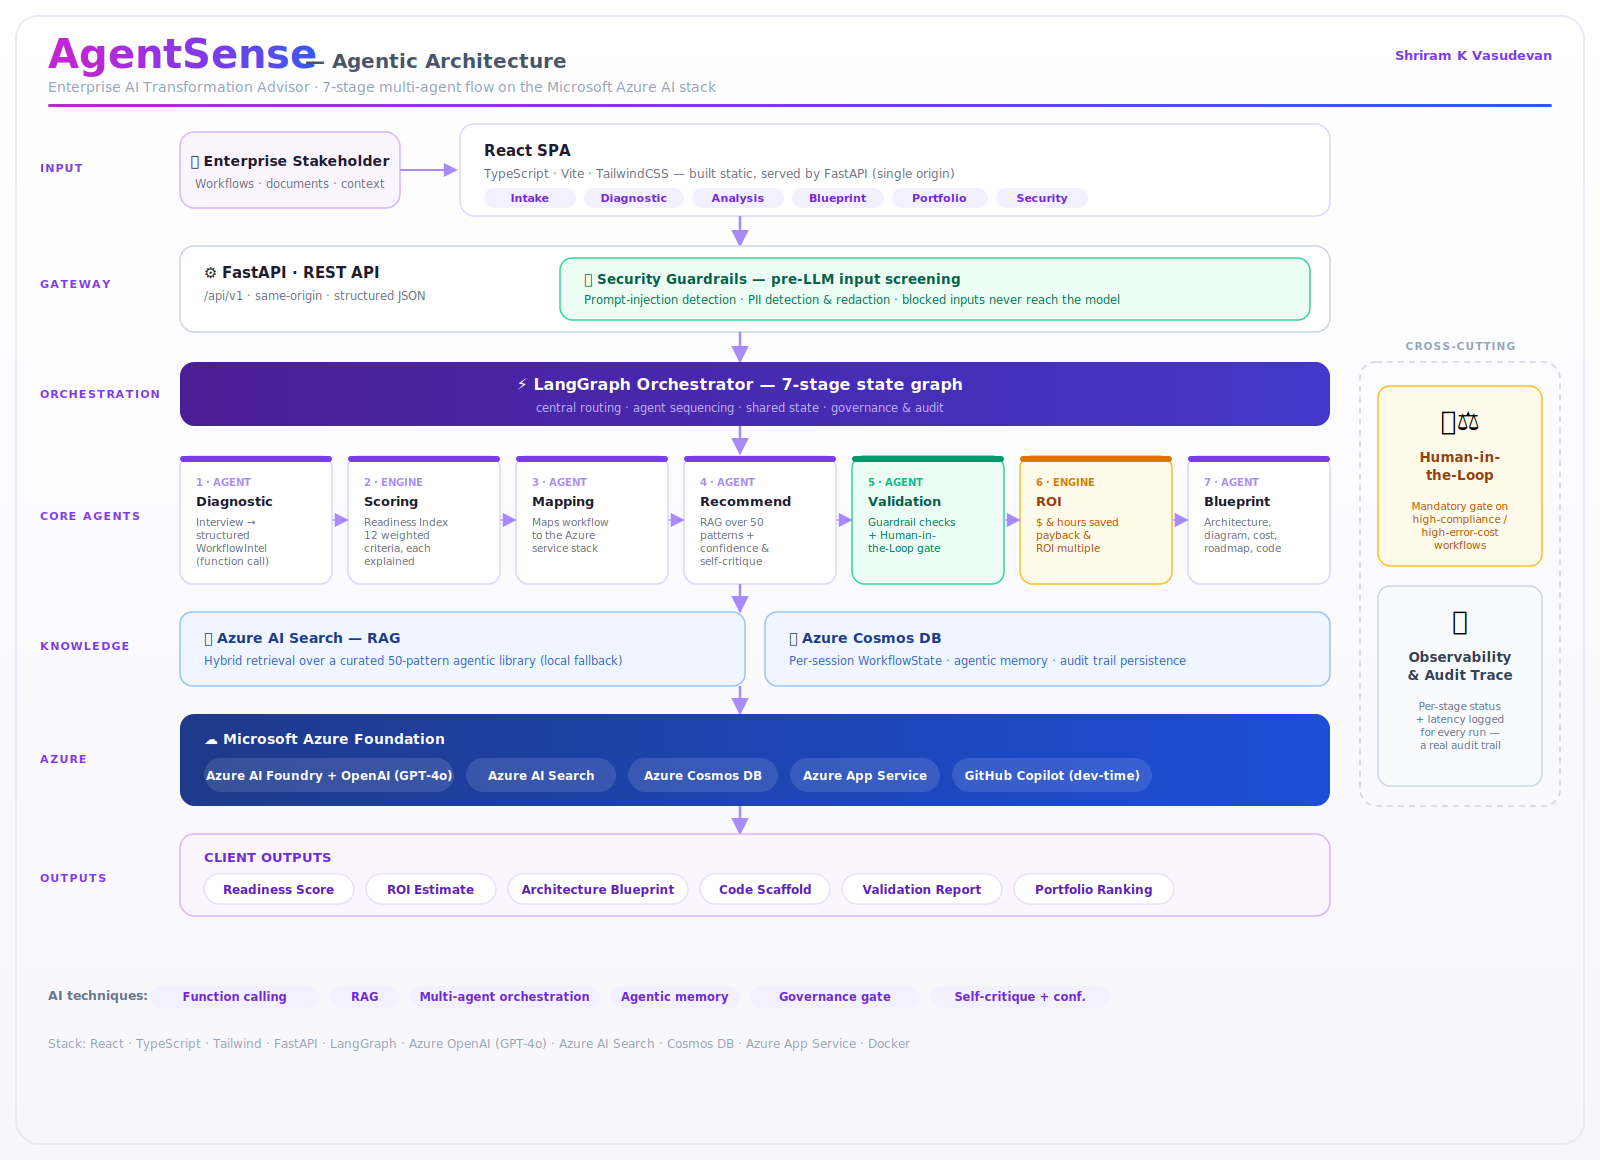
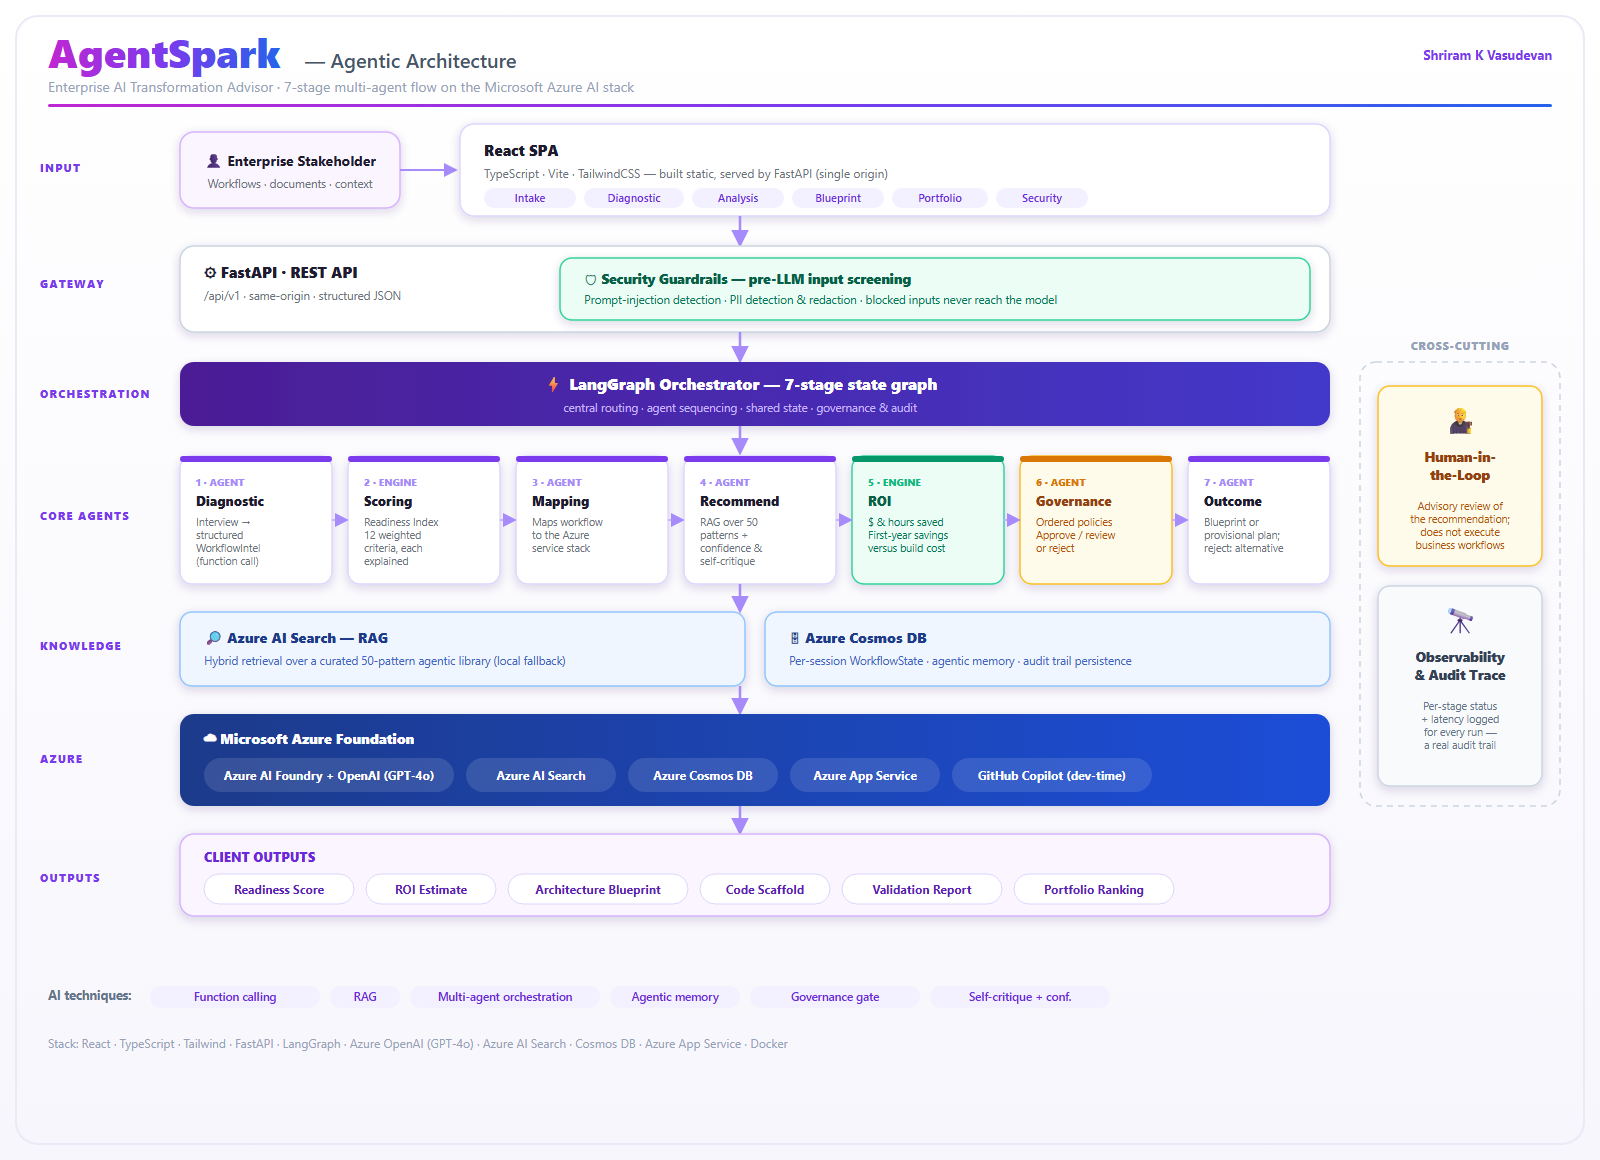
Complete AgentSpark repository and release branding
Rebrand public package/image/artifact names, architecture artwork, runtime logs and documentation. Preserve legacy configuration, reviewer role values, persistence identifiers and original authorship. Document safe repository rename and fork-detachment metadata limitations.

diff --git a/tests/test_delivery.py b/tests/test_delivery.py
@@ -1,4 +1,5 @@
 import os
+import json
 from pathlib import Path
 import re
 import unittest
@@ -111,6 +112,35 @@ class SmokeTests(unittest.TestCase):
 
 
 class DeliveryConfigurationTests(unittest.TestCase):
+    def test_public_package_image_and_release_artifacts_use_agentspark(self):
+        package = json.loads((ROOT / "frontend" / "package.json").read_text())
+        lock = json.loads((ROOT / "frontend" / "package-lock.json").read_text())
+        self.assertEqual(package["name"], "agentspark-frontend")
+        self.assertEqual(lock["name"], package["name"])
+        self.assertEqual(lock["packages"][""]["name"], package["name"])
+        dockerfile = (ROOT / "Dockerfile").read_text()
+        self.assertIn('org.opencontainers.image.title="AgentSpark"', dockerfile)
+        workflow = (ROOT / ".github" / "workflows" / "ci.yml").read_text()
+        self.assertIn("tags: agentspark:${{ github.sha }}", workflow)
+        self.assertIn("release/agentspark-linux-amd64.tar.gz", workflow)
+        self.assertIn("sha256sum agentspark-linux-amd64.tar.gz", workflow)
+        self.assertIn("name: agentspark-${{ github.sha }}-linux-amd64", workflow)
+        self.assertNotIn("agentsense-linux-amd64", workflow)
+
+    def test_rebranding_preserves_storage_and_legacy_configuration_contracts(self):
+        from app.security.auth import AuthSettings
+        from app.utils.runtime import load_settings
+        self.assertEqual(AuthSettings("local-demo").reviewer_role, "AgentSense.Reviewer")
+        with patch.dict(os.environ, {"AGENTSENSE_MODE": "demo"}):
+            self.assertEqual(load_settings().mode, "demo")
+        dockerfile = (ROOT / "Dockerfile").read_text()
+        self.assertIn("DEMO_ARCHIVE_PATH=/home/agentsense/.agentspark/decisions.sqlite3", dockerfile)
+        app_source = (ROOT / "frontend" / "src" / "App.tsx").read_text()
+        self.assertIn('"agentsense.session.v1"', app_source)
+        architecture = (ROOT / "docs" / "architecture.svg").read_text(encoding="utf-8")
+        self.assertIn(">AgentSpark</text>", architecture)
+        self.assertIn("Shriram K Vasudevan", architecture)
+
     def test_actions_are_immutable_read_only_and_packaging_depends_on_quality(self):
         workflow = yaml.load((ROOT / ".github" / "workflows" / "ci.yml").read_text(), Loader=yaml.BaseLoader)
         self.assertEqual(workflow["permissions"], {"contents": "read"})
@@ -124,7 +154,7 @@ class DeliveryConfigurationTests(unittest.TestCase):
         self.assertNotIn("secrets.", (ROOT / ".github" / "workflows" / "ci.yml").read_text())
 
     def test_compose_does_not_shadow_the_built_frontend_or_expose_shared_demo_publicly(self):
-        service = yaml.safe_load((ROOT / "docker-compose.yml").read_text())["services"]["agentsense"]
+        service = yaml.safe_load((ROOT / "docker-compose.yml").read_text())["services"]["agentspark"]
         self.assertEqual(service["volumes"], ["decision_archive:/home/agentsense/.agentspark"])
         self.assertEqual(service["ports"], ["127.0.0.1:8000:8000"])
         self.assertTrue(service["read_only"])

diff --git a/app/utils/models.py b/app/utils/models.py
@@ -250,7 +250,7 @@ class EnterpriseContext(BaseModel):
 
 # ──────────────────────────────────────────────────────────────
 # Portfolio — a scored workflow within a multi-workflow analysis,
-# so AgentSense can rank a whole transformation backlog.
+# so AgentSpark can rank a whole transformation backlog.
 # ──────────────────────────────────────────────────────────────
 class TokenUsage(BaseModel):
     total_tokens: int = 0

diff --git a/app/scoring/portfolio.py b/app/scoring/portfolio.py
@@ -1,7 +1,7 @@
 """
 Portfolio scoring — rank a backlog of workflows by agentification readiness.
 
-This turns AgentSense from a single-workflow advisor into a transformation
+This turns AgentSpark from a single-workflow advisor into a transformation
 portfolio planner: feed it several candidate workflows and it ranks where agents
 deliver the most value first. Every score here is COMPUTED by the same 12-criteria
 engine used in the main flow — none are hard-coded.

diff --git a/app/main.py b/app/main.py
@@ -18,7 +18,7 @@ from app.utils.runtime import settings
 
 logging.basicConfig(level=logging.INFO)
 logger = logging.getLogger(__name__)
-logger.info("AgentSense runtime mode: %s", settings.mode)
+logger.info("AgentSpark runtime mode: %s", settings.mode)
 
 app = FastAPI(title="AgentSpark API", version="2.0.0",
               description="Enterprise Agentification Advisor — React SPA + FastAPI + LangGraph")

diff --git a/app/rag/pattern_library.py b/app/rag/pattern_library.py
@@ -1,7 +1,7 @@
 """
 Curated library of agentic design patterns.
 
-This is the knowledge base AgentSense retrieves over (via Azure AI Search when
+This is the knowledge base AgentSpark retrieves over (via Azure AI Search when
 configured, or locally in mock mode). Each pattern is a vetted, reusable design
 with explicit "when to use" guidance and the Azure services it maps to.
 

diff --git a/app/utils/runtime.py b/app/utils/runtime.py
@@ -26,7 +26,7 @@ def load_settings() -> RuntimeSettings:
     except ValidationError:
         logger.exception("AGENTSENSE_MODE must be demo or live.")
         raise
-    logger.info("AgentSense runtime mode: %s", result.mode)
+    logger.info("AgentSpark runtime mode: %s", result.mode)
     return result
 
 

diff --git a/test_e2e_scenario.py b/test_e2e_scenario.py
@@ -1,5 +1,5 @@
 """
-End-to-end scenario test for AgentSense.
+End-to-end scenario test for AgentSpark.
 
 Runs the full pipeline (intake → diagnostic → 7-stage orchestration → review)
 against the real FastAPI app via TestClient. Forces MOCK MODE so it is fully

diff --git a/app/security/guardrails.py b/app/security/guardrails.py
@@ -1,5 +1,5 @@
 """
-Input guardrails for AgentSense.
+Input guardrails for AgentSpark.
 
 An agent that advises enterprises on safe agentic adoption must itself be hardened.
 Every user message entering the Diagnostic Agent is screened for:

diff --git a/docs/operations.md b/docs/operations.md
@@ -1,5 +1,43 @@
 # Delivery and operations runbook
 
+## Repository identity and compatibility
+
+The repository is now [whatanidea/AgentSpark](https://github.com/whatanidea/AgentSpark).
+GitHub renamed the existing repository in place: commits, branches, issues, and
+pull requests are retained. Existing clones can update their origin without
+recloning or rewriting history:
+
+```powershell
+git remote set-url origin https://github.com/whatanidea/AgentSpark.git
+```
+
+The Compose service is now `agentspark`; use `docker compose up --build agentspark`
+for service-specific commands. The container UID/GID, legacy internal account,
+archive path, and `decision_archive` volume are unchanged. Keep the same Compose
+project name when moving/renaming a checkout (`docker compose -p <existing-project>
+up --build`), so Docker reuses the existing named archive volume. Do not use
+`down --volumes` as a rebranding step.
+
+Runtime environment keys (`AGENTSENSE_*`), reviewer role value
+(`AgentSense.Reviewer`), Cosmos database default (`agentsense_db`), and browser
+session/event identifiers remain compatible. Public package/image/release names
+use AgentSpark. Older retained release archives keep their original filenames;
+use the matching release metadata and checksum manifest rather than renaming them.
+No Entra registration or Azure resource is changed merely by merging this PR.
+
+### Fork connection and attribution
+
+The upstream fork connection and Git history are intentionally preserved.
+[GitHub's detachment documentation](https://docs.github.com/en/pull-requests/how-tos/work-with-forks/detaching-a-fork)
+warns that self-service detachment loses PRs, issues, and other repository metadata.
+Deleting/recreating the repository has similar losses and is not a safe alternative.
+To request detachment while retaining that metadata, contact
+[GitHub Support](https://support.github.com/request/fork) and obtain explicit
+confirmation of what they can preserve before authorizing any action.
+No metadata-preserving detachment is assumed or claimed here.
+Original author credits and provenance references remain; rebranding does not
+remove attribution.
+
 ## What Phase 6 does (and does not do)
 
 The [delivery workflow](../.github/workflows/ci.yml) validates pull requests, `main`
@@ -295,7 +333,9 @@ configured by `AUTH_SPA_CLIENT_ID`, `AUTH_SPA_AUTHORITY` and `AUTH_SPA_SCOPE`;
 tokens are held in memory only and the pop-up returns to the blank `/auth-redirect.html`). For scripted tests, get a token with
 `az account get-access-token --tenant <tenant-id> --scope api://<AUTH_AUDIENCE>/access_as_user`
 and use "Use an access token instead".
-Personal-workflow reviewers need the `AgentSense Reviewer` app role assigned in the
+Personal-workflow reviewers need the reviewer app role (value `AgentSense.Reviewer`,
+display name `AgentSpark Reviewer` for updated registrations; older registrations
+may still display `AgentSense Reviewer`) assigned in the
 enterprise application; team reviewers only need their in-app team reviewer grant.
 Call `/ready` once after seeding; run acceptance with two
 identities so creator/reviewer separation is exercised. `azd down --purge`
@@ -307,13 +347,13 @@ After quality gates, CI builds `linux/amd64`, checks non-root operation, verifie
 unconfigured production startup fails, and runs a complete fictional workflow
 against a read-only, capability-dropped container. A successful run uploads:
 
-- `agentsense-linux-amd64.tar.gz`: `docker save` archive of the tested image.
+- `agentspark-linux-amd64.tar.gz`: `docker save` archive of the tested image.
 - `image-inspect.json`: image ID, labels, runtime settings and layer metadata.
 - Runtime and frontend dependency locks.
 - `release.json`: exact tested Git revision, image tag/platform, `deployed: false`.
 - `SHA256SUMS`: integrity checks for those files.
 
-The artifact is named `agentsense-<tested-sha>-linux-amd64` and expires after
+The artifact is named `agentspark-<tested-sha>-linux-amd64` and expires after
 **three days** to bound hosted artifact storage. Before expiry, an authorized
 release owner must retain the approved archive and metadata in the organization's
 approved immutable release storage if a long-term release/rollback is needed.
@@ -334,7 +374,7 @@ Get-Content SHA256SUMS | ForEach-Object {
     throw "Release checksum mismatch: $name"
   }
 }
-docker load --input agentsense-linux-amd64.tar.gz
+docker load --input agentspark-linux-amd64.tar.gz
 $release = Get-Content release.json -Raw | ConvertFrom-Json
 docker image inspect $release.image
 ```

diff --git a/README.md b/README.md
@@ -13,8 +13,21 @@ spends a single sprint "agentifying" a workflow, AgentSpark answers four questio
 It is a **meta-agent**: a multi-agent system whose job is to design *other* agentic systems
 responsibly — including telling you when the honest answer is "don't use an agent here."
 
-Existing `AGENTSENSE_*` configuration keys, the `AgentSense.Reviewer` role, and
-repository/package identifiers remain unchanged for compatibility.
+Repository: [whatanidea/AgentSpark](https://github.com/whatanidea/AgentSpark).
+The frontend package, container image title, and new CI release artifacts use
+AgentSpark branding.
+
+Existing `AGENTSENSE_*` configuration keys, the `AgentSense.Reviewer` role value,
+the `agentsense_db` database, browser session/event identifiers, and the container
+account/archive path remain unchanged for compatibility. Renaming them without
+migration would break existing configuration, sign-in roles, or retained data.
+
+### Project provenance
+
+AgentSpark builds on the original
+[AgentSense project by Shriram K Vasudevan](https://github.com/shriramkv/The-AgentSense).
+Original commit history, contributor credits, and authorship notices are retained.
+The GitHub repository has been renamed; its fork connection has not been removed.
 
 ---
 
@@ -26,7 +39,7 @@ A seven-stage pipeline orchestrated with **LangGraph**:
 |---|-------|-------------------|--------|
 | 1 | Diagnose | **Diagnostic Agent** | Workflow facts with supplied/inferred/missing evidence; incomplete inputs return follow-up questions and stop |
 | 2 | Score | **Scoring Engine** | Agentification Readiness Index — 12 weighted, explained criteria |
-| 3 | Map | **Mapping Agent** | Recommended Microsoft Azure service stack |
+| 3 | Map | **Mapping Agent** | Recommended Azure or AWS service candidates for the selected assessment target |
 | 4 | Recommend | **Recommendation Agent** | Readiness-constrained design with pattern IDs, source snapshots, completeness and self-critique |
 | 5 | Estimate | **ROI Engine** | Explicit assumptions and conservative/base/optimistic labor-effort scenarios |
 | 6 | Govern | **Governance Agent** | Validated, ordered policies over risk, completeness, autonomy, and actual first-year ROI |
